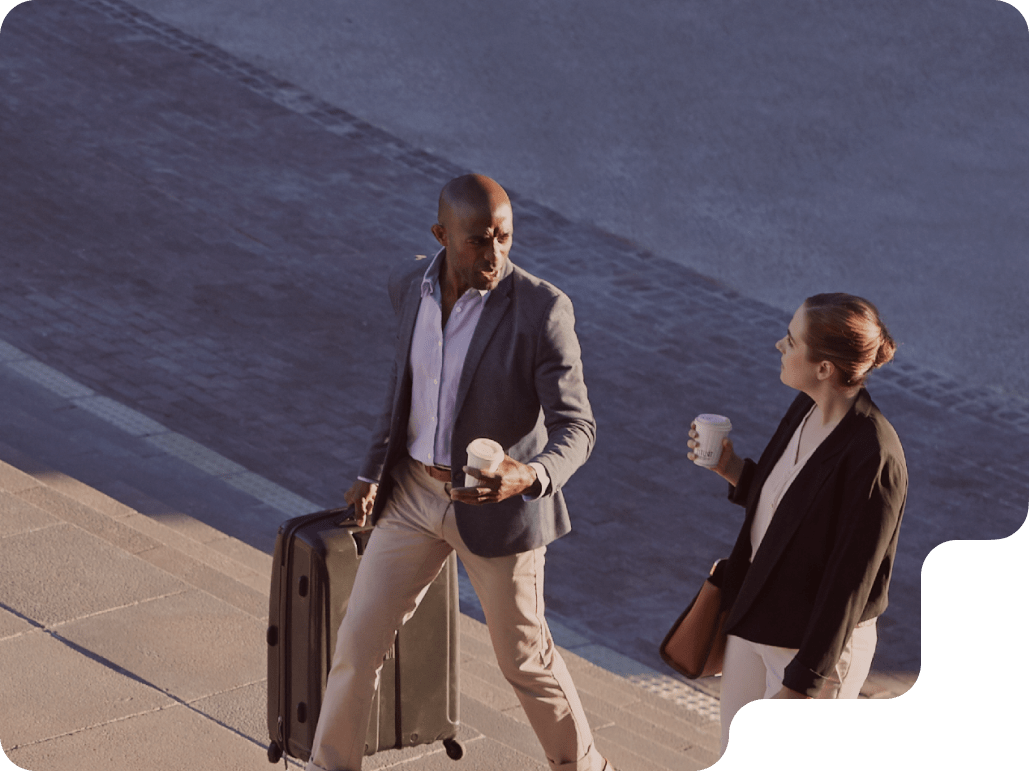
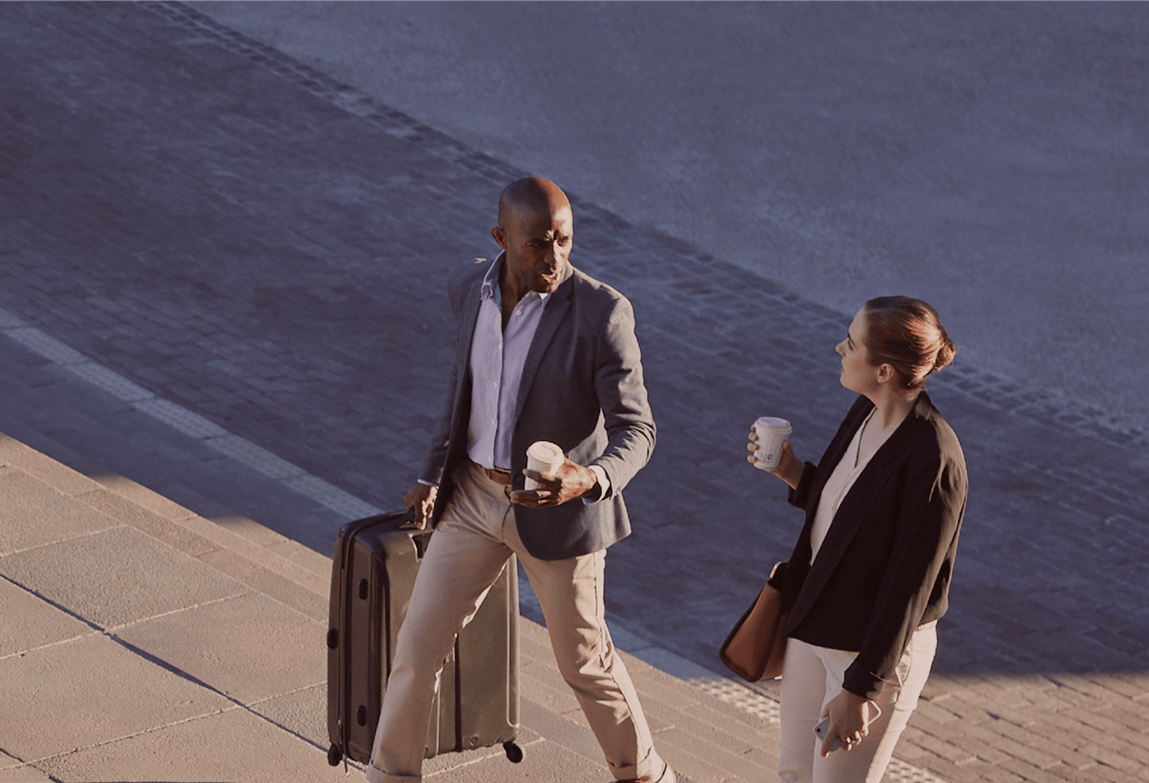
이미지 수정

diff --git a/resources/frontAssets/mo/css/main.css b/resources/frontAssets/mo/css/main.css
@@ -207,8 +207,8 @@ body {
 .page-header__content::before {
   content: "";
   position: absolute;
-  bottom: 0;
-  right: 0;
+  bottom: -1px;
+  right: -1px;
   width: 112px;
   height: 89px;
   background-size: 100% 100%;
@@ -233,10 +233,10 @@ body {
   background-image: url("../../../frontAssets/mo/image/visual_img_management.png");
 }
 .page-header__content.business {
-  background-image: url("../../../frontAssets/mo/image/main_visual_business.png");
+  background-image: url("../../../frontAssets/mo/image/visual_img_business.png");
 }
 .page-header__content.assets {
-  background-image: url("../../../frontAssets/mo/image/main_visual_assets.png");
+  background-image: url("../../../frontAssets/mo/image/visual_img_assets.png");
 }
 .page-header .page-title {
   position: relative;
@@ -262,6 +262,10 @@ body {
 .main .page-header__content::before {
   left: 0;
   background-image: url("../../../frontAssets/mo/image/main_visual_mask_left.png");
+}
+.main .page-header__content::after {
+  right: 0;
+  background-image: url("../../../frontAssets/mo/image/main_visual_mask_right.png");
 }
 
 .content-container {

diff --git a/resources/frontAssets/mo/css/main.scss b/resources/frontAssets/mo/css/main.scss
@@ -236,8 +236,8 @@ body {
     &::before {
       content: '';
       position: absolute;
-      bottom: 0;
-      right: 0;
+      bottom: -1px;
+      right: -1px;
       width: 112px;
       height: 89px;
       background-size: 100% 100%;
@@ -269,11 +269,11 @@ body {
     }
 
     &.business {
-      background-image: url('../../../frontAssets/mo/image/main_visual_business.png');
+      background-image: url('../../../frontAssets/mo/image/visual_img_business.png');
     }
 
     &.assets {
-      background-image: url('../../../frontAssets/mo/image/main_visual_assets.png');
+      background-image: url('../../../frontAssets/mo/image/visual_img_assets.png');
     }
   }
 
@@ -306,6 +306,11 @@ body {
     &::before {
       left: 0;
       background-image: url('../../../frontAssets/mo/image/main_visual_mask_left.png');
+    }
+
+    &::after {
+      right: 0;
+      background-image: url('../../../frontAssets/mo/image/main_visual_mask_right.png');
     }
   }
 }

diff --git a/resources/frontAssets/pc/js/main.js b/resources/frontAssets/pc/js/main.js
@@ -318,3 +318,13 @@ const initDropdowns = () => {
     });
   });
 };
+
+// 운영체제(OS) 구분
+const userAgent = navigator.userAgent.toLowerCase();
+
+if (userAgent.includes('windows')) {
+  document.documentElement.classList.add('window');
+} else if (userAgent.includes('macintosh') || userAgent.includes('mac os')) {
+  document.documentElement.classList.add('mac');
+} else {
+}
